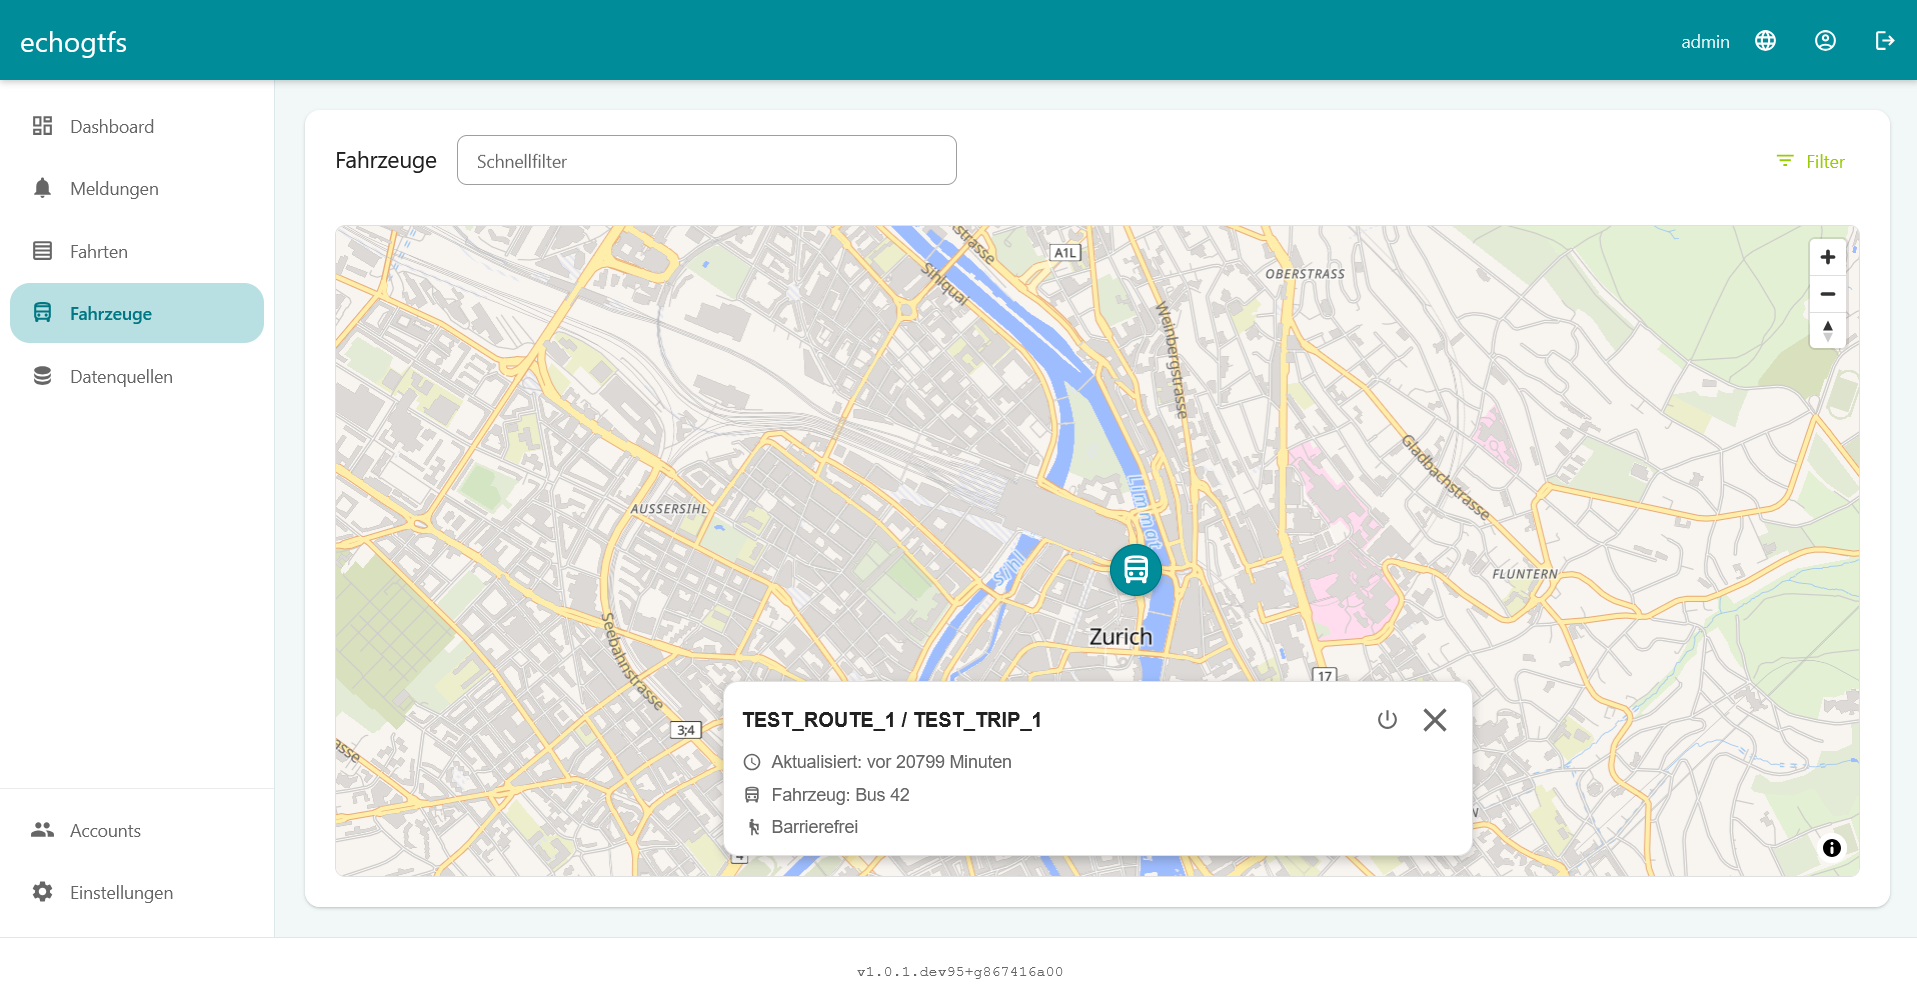
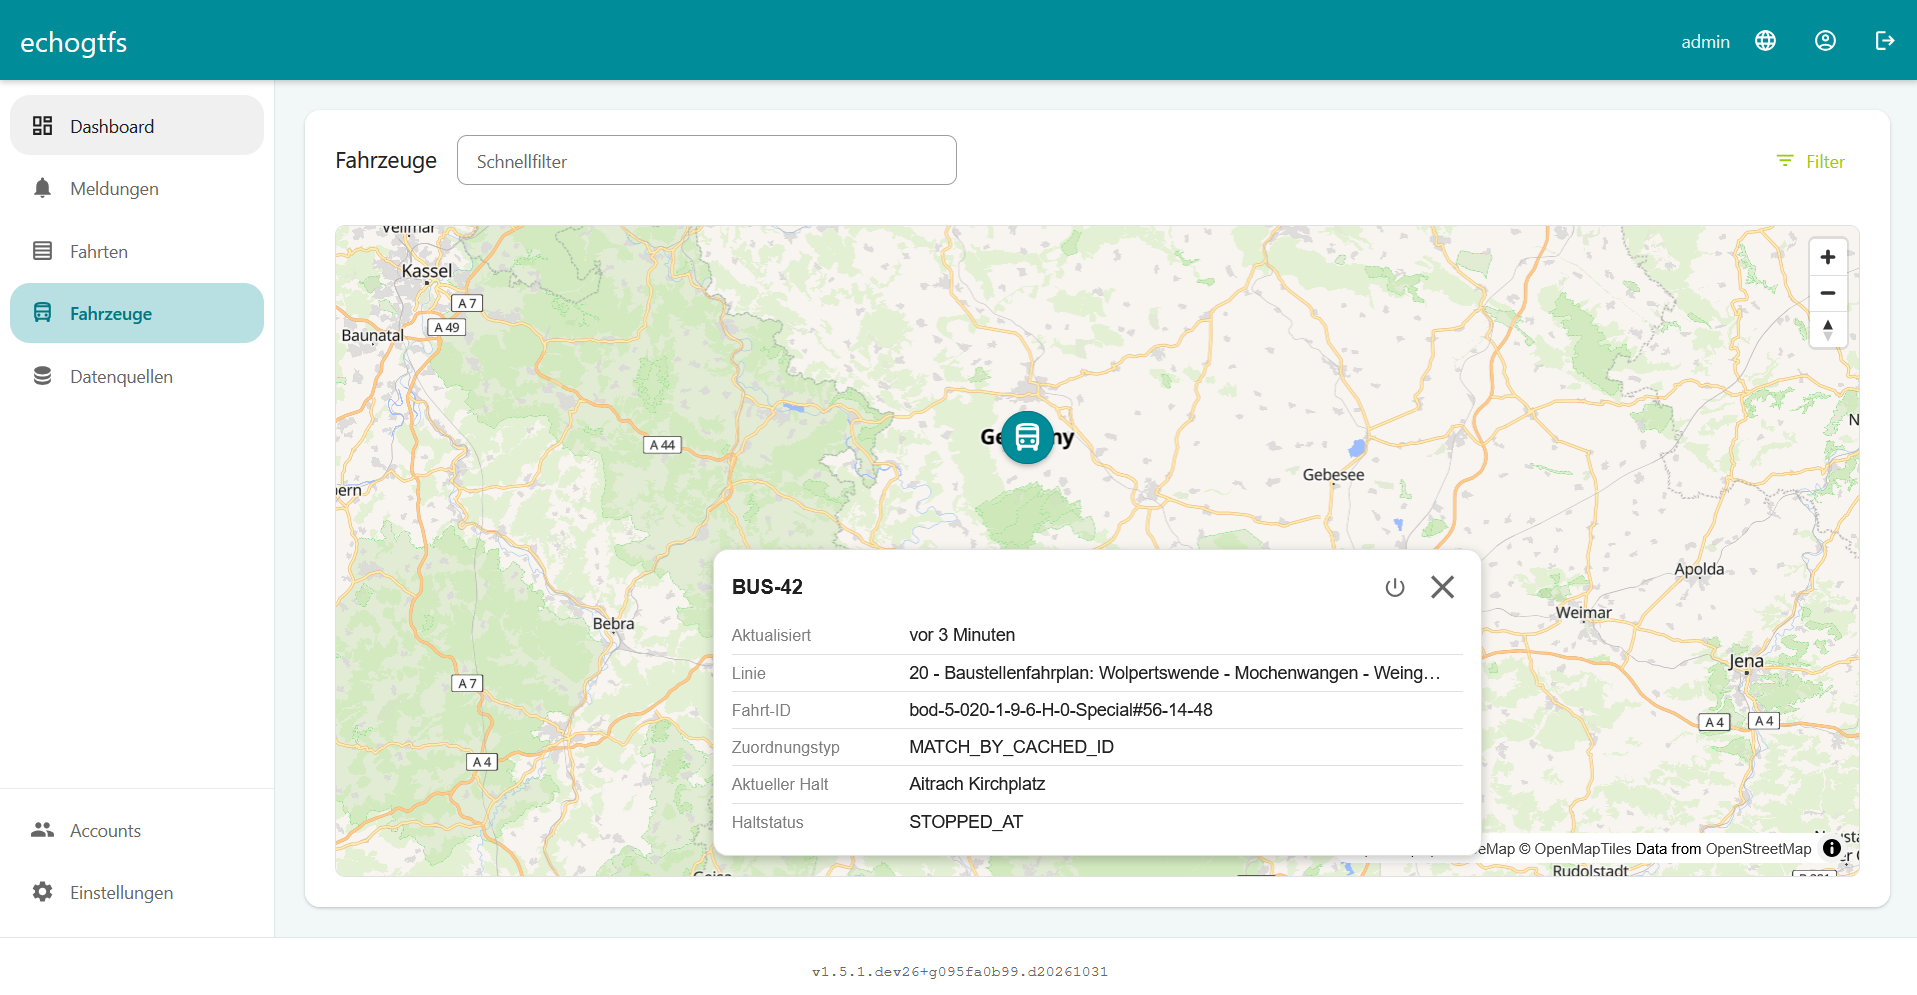
extended and improved documentation for updated vehicle functionality and screens

diff --git a/docs/manual/source/views/vehicles.md b/docs/manual/source/views/vehicles.md
@@ -12,5 +12,17 @@ Im Bereich "Fahrzeuge" werden alle aktuellen Fahrzeugpositionen angezeigt.
     - **inaktive Fahrzeuge**: Es werden alle deaktivierten Fahrzeuge mit einbezogen
 - Durch Klick auf ein Fahrzeug-Icon werden die Details zu dem Fahrzeug angezeigt:
     - **Aktualisiert**: Letzter Aktualisierungszeitpunkt der Fahrzeugposition, welcher vom Fahrzeug gemeldet wurde
-    - **Fahrzeug**: Bezeichnung, Kennzeichen oder interne ID des Fahrzeuges
-    - **Barrierefreiheit**: Informationen über die Barrierefreiheit des Fahrzeugs
+    - **Linie**: Linie, auf der das Fahrzeug aktuell verkehrt. Wenn keiner Linie zugeordnet werden konnte, wird dies über ein Fehler-Icon kenntlich gemacht
+    - **Fahrt-ID**: Zugeordnete Fahrt, auf der das Fahrzeug aktuell verkehrt. Wenn die Fahrt nicht aus dem Soll-Fahrplan ermittelt werden konnte, wird dies über ein Fehler-Icon kenntlich gemacht
+    - **Zuordnungstyp**: Gibt an, auf welchem Weg eine Fahrt aus der Datenquelle einer konkreten Fahrt im Soll-Fahrplan zugeordnet wurde. Folgende Werte können hier auftauchen:
+        - `DIRECT_BY_ID`: die Fahrt wurde anhand ihrer ID im Soll-Fahrplan gefunden
+        - `MATCH_BY_CACHED_ID`: die Fahrt wurde bereits durch eine andere Datenquelle einer Fahrt im Soll-Fahrplan zugeordnet
+        - `MATCHED_BY_START_STOP`: die Fahrt wurde anhand ihrer Start- und Endhaltestelle, sowie der Abfahrts- und Ankunftszeit im Soll-Fahrplan gefunden
+        - `MATCHED_BY_CURRENT_STOP`: die Fahrt wurde anhand von mindestens einem Unterwegshalt im Soll-Fahrplan gefunden
+        - `NO_MATCH_GENERAL`: es wurde keine passende Fahrt im Soll-Fahrplan gefunden
+        - `NO_MATCH_AMBIGUOUS_TRIP`: es wurde keine _eindeutig passende Fahrt_ im Soll-Fahrplan gefunden
+    - **Aktueller Halt**: Aktuelle bzw. nächste Haltestelle, die das Fahrzeug anfährt. Wenn die Haltestelle nicht aus dem Soll-Fahrplan ermittelt werden konnte, wird dies über ein Fehler-Icon kenntlich gemacht
+    - **Haltstatus**: Angabe über den Bezug zur aktuellen Haltestelle. Mögliche Werte sind:
+        - `INCOMING_AT`: Das Fahrzeug erreicht die aktuelle Haltestelle
+        - `STOPPED_AT`: Das Fahrzeug steht an der aktuellen Haltestelle
+        - `IN_TRANSIT_TO`: Das Fahrzeug befindet sich im Zulauf auf die aktuelle Haltestelle

diff --git a/docs/manual/source/views/trips.md b/docs/manual/source/views/trips.md
@@ -34,8 +34,9 @@ Um die Details zu einer Fahrt anzuzeigen, klicken Sie auf den "View" Button in d
 - Ein Fahrzeug wird zu einer Fahrt dann angezeigt, wenn über eine entsprechende Datenquelle (z.B. SIRI-VM) ein Fahrzeug für diese Fahrt erkannt wurde
 - Die Daten für Start und Ende beziehen sich jeweils auf die _Soll-Ankunfts- und Abfahrtszeit_ und berücksichtigen _keine Prognosedaten_! Auf diesem Weg wird eine einfache Identifikation der Fahrt im Soll-Fahrplan möglich.
 - Das Flag **Komplettfahrt** gibt an, ob es sich bei dem vorgehaltenen Datenstand um den Gesamtverlauf der Fahrt handelt, oder ob die Fahrt nur mit inkrementellen Updates vorliegt. Weitere Informationen dazu unter {ref}`h-system-copy-system-copy`
-- Der Zuordnungstyp gibt an, auf welchem Weg eine Fahrt aus der Datenquelle einer konkreten Fahrt im Sollfahrplan zugeordnet wurde. Folgende Werte können hier auftauchen:
+- Der Zuordnungstyp gibt an, auf welchem Weg eine Fahrt aus der Datenquelle einer konkreten Fahrt im Soll-Fahrplan zugeordnet wurde. Folgende Werte können hier auftauchen:
     - `DIRECT_BY_ID`: die Fahrt wurde anhand ihrer ID im Soll-Fahrplan gefunden
+    - `MATCH_BY_CACHED_ID`: die Fahrt wurde bereits durch eine andere Datenquelle einer Fahrt im Soll-Fahrplan zugeordnet
     - `MATCHED_BY_START_STOP`: die Fahrt wurde anhand ihrer Start- und Endhaltestelle, sowie der Abfahrts- und Ankunftszeit im Soll-Fahrplan gefunden
     - `MATCHED_BY_CURRENT_STOP`: die Fahrt wurde anhand von mindestens einem Unterwegshalt im Soll-Fahrplan gefunden
     - `NO_MATCH_GENERAL`: es wurde keine passende Fahrt im Soll-Fahrplan gefunden
